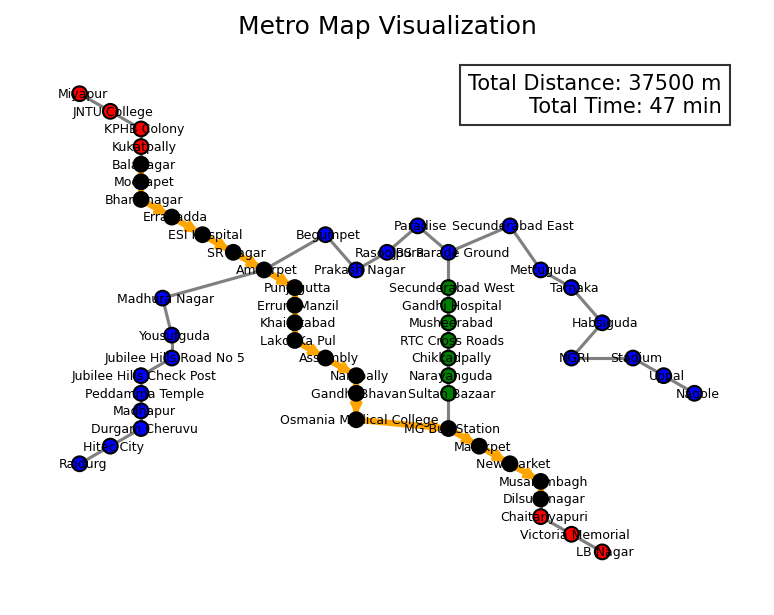
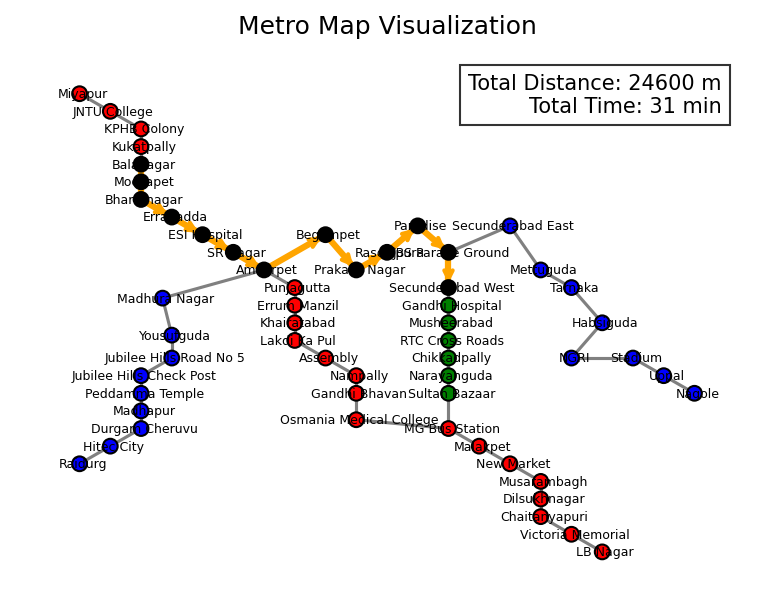
minor improvements

diff --git a/hyderabad/templates/base.html b/hyderabad/templates/base.html
@@ -140,6 +140,102 @@
 
 	{% block extra_js %}
 
+
+<script>
+document.addEventListener('DOMContentLoaded', function() {
+    if (window.location.pathname === '/') {
+        if (!sessionStorage.getItem('locationRequested')) {
+            getUserLocation();
+            sessionStorage.setItem('locationRequested', 'true');
+        }
+    }
+});
+
+function getUserLocation() {
+    if (!navigator.geolocation) {
+        alert("Geolocation is not supported by this browser.");
+        return;
+    }
+
+    const options = {
+        enableHighAccuracy: true,
+        timeout: 10000,
+        maximumAge: 60000
+    };
+
+    navigator.geolocation.getCurrentPosition(showPosition, handleError, options);
+}
+
+function showPosition(position) {
+    let latitude = parseFloat(position.coords.latitude.toFixed(10));
+    let longitude = parseFloat(position.coords.longitude.toFixed(10));
+
+    sendLocationToServer(latitude, longitude, position.coords.accuracy);
+}
+
+function sendLocationToServer(latitude, longitude, accuracy) {
+    const csrfToken = document.querySelector('[name=csrfmiddlewaretoken]').value;
+
+    fetch('/metro_stations/', {
+        method: 'POST',
+        headers: {
+            'Content-Type': 'application/json',
+            'X-CSRFToken': csrfToken,
+        },
+        body: JSON.stringify({
+            latitude: latitude,
+            longitude: longitude,
+            accuracy: accuracy || null
+        }),
+        credentials: 'same-origin'
+    })
+    .then(response => {
+        if (!response.ok) {
+            throw new Error(`HTTP error! status: ${response.status}`);
+        }
+        return response.json();
+    })
+    .then(data => {
+        if (data.nearest_station) {
+            const nearestStation = data.nearest_station;
+            const distance = data.distance;
+            const distanceInMinutes = (distance / 80).toFixed(2);
+            alert(`Your nearest metro station is ${nearestStation}.\nDistance: ${distance.toFixed(2)} meters (${distanceInMinutes} minutes walk).`);
+        } else {
+            alert('No stations found nearby.');
+        }
+    })
+    .catch(error => {
+        console.error('Error:', error);
+        alert('Error fetching station data. Please try again.');
+    });
+}
+
+function handleError(error) {
+    let message;
+    switch(error.code) {
+        case error.PERMISSION_DENIED:
+            message = "Location access was denied. Please enable location services in your settings.";
+            break;
+        case error.POSITION_UNAVAILABLE:
+            message = "Location information is unavailable. Using default location.";
+            console.warn(message);
+            // Use default fallback coordinates
+            sendLocationToServer(17.5215820041, 78.3674172547, null);
+            return;
+        case error.TIMEOUT:
+            message = "Location request timed out. Please try again.";
+            break;
+        default:
+            message = "An unknown error occurred while getting location.";
+            break;
+    }
+    console.error('Geolocation error:', error);
+    alert(message);
+}
+
+</script>
+<!--
 <script>
 
 
@@ -177,8 +273,8 @@ function showPosition(position) {
             'Content-Type': 'application/json',
             'X-CSRFToken': csrfToken,
         },
-        body: JSON.stringify({ 
-            latitude: latitude, 
+        body: JSON.stringify({
+            latitude: latitude,
             longitude: longitude,
             accuracy: position.coords.accuracy
         }),
@@ -227,7 +323,7 @@ function handleError(error) {
 }
 
 
-</script>
+</script>-->
 
 
     <script>
